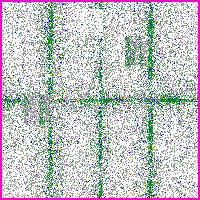
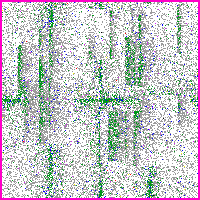
REPORT.md: scattered CutMix bigger + grid CutMix variant
- scattered CutMix: 5×30 → 10×50 patches (more visible mosaic)
- new grid CutMix: 8×8 binary mask, each cell random A or B
- both demos with bank_boundary + scratch

Changed region(s): [[0.06, 0.0, 0.99, 0.84]]

diff --git a/docs/chip-multilabel/manager_report/REPORT.md b/docs/chip-multilabel/manager_report/REPORT.md
@@ -97,11 +97,29 @@ OOD chip 은 wafer 단위 합성한 불량 wafer 에서 결함 영역(bin ≥ 20
 |:---:|:---:|:---:|
 | ![](figs/cutmix_demo/orig_bank.png) | ![](figs/cutmix_demo/orig_scratch.png) | ![](figs/cutmix_demo/cutmix_random_rect.png) |
 
-**scattered CutMix** (Walawalkar 2020) — 큰 사각 한 개 대신 여러 작은 patch (예: 5개 30×30) 흩뿌림. fragmented 합성.
+**scattered CutMix** (Walawalkar 2020) — 큰 사각 한 개 대신 여러 patch (10개 50×50) 흩뿌림. fragmented 합성으로 결함이 chip 안 random 위치에 분산.
 
-| 원본 bank_boundary | 원본 scratch | scattered CutMix (5 patches) |
+| 원본 bank_boundary | 원본 scratch | scattered CutMix (10 patches × 50×50) |
 |:---:|:---:|:---:|
 | ![](figs/cutmix_demo/orig_bank.png) | ![](figs/cutmix_demo/orig_scratch.png) | ![](figs/cutmix_demo/cutmix_scattered.png) |
+
+**grid CutMix** — chip 을 8×8 grid (각 25×25) 로 나누고 각 cell 별로 random 하게 chip A 또는 B 선택. 0/1 binary mask 로 섞음.
+
+| 원본 bank_boundary | 원본 scratch | grid CutMix (8×8 binary mask) |
+|:---:|:---:|:---:|
+| ![](figs/cutmix_demo/orig_bank.png) | ![](figs/cutmix_demo/orig_scratch.png) | ![](figs/cutmix_demo/cutmix_grid_8x8.png) |
+
+```
+mask 8x8 (1=scratch, 0=bank):     ← 64 cell 각각 random binary
+[0 1 1 0 0 1 0 1]
+[0 0 1 1 1 1 1 1]
+[1 0 1 0 1 0 0 1]
+[1 1 0 1 1 0 0 0]
+[0 1 1 0 1 1 0 1]
+[0 1 1 0 0 1 0 1]
+[1 1 1 0 0 0 0 0]
+[1 0 1 1 1 1 0 1]
+```
 
 ### Loss — 어떤 식으로 틀렸는지를 모델에 알려주는 함수
 
